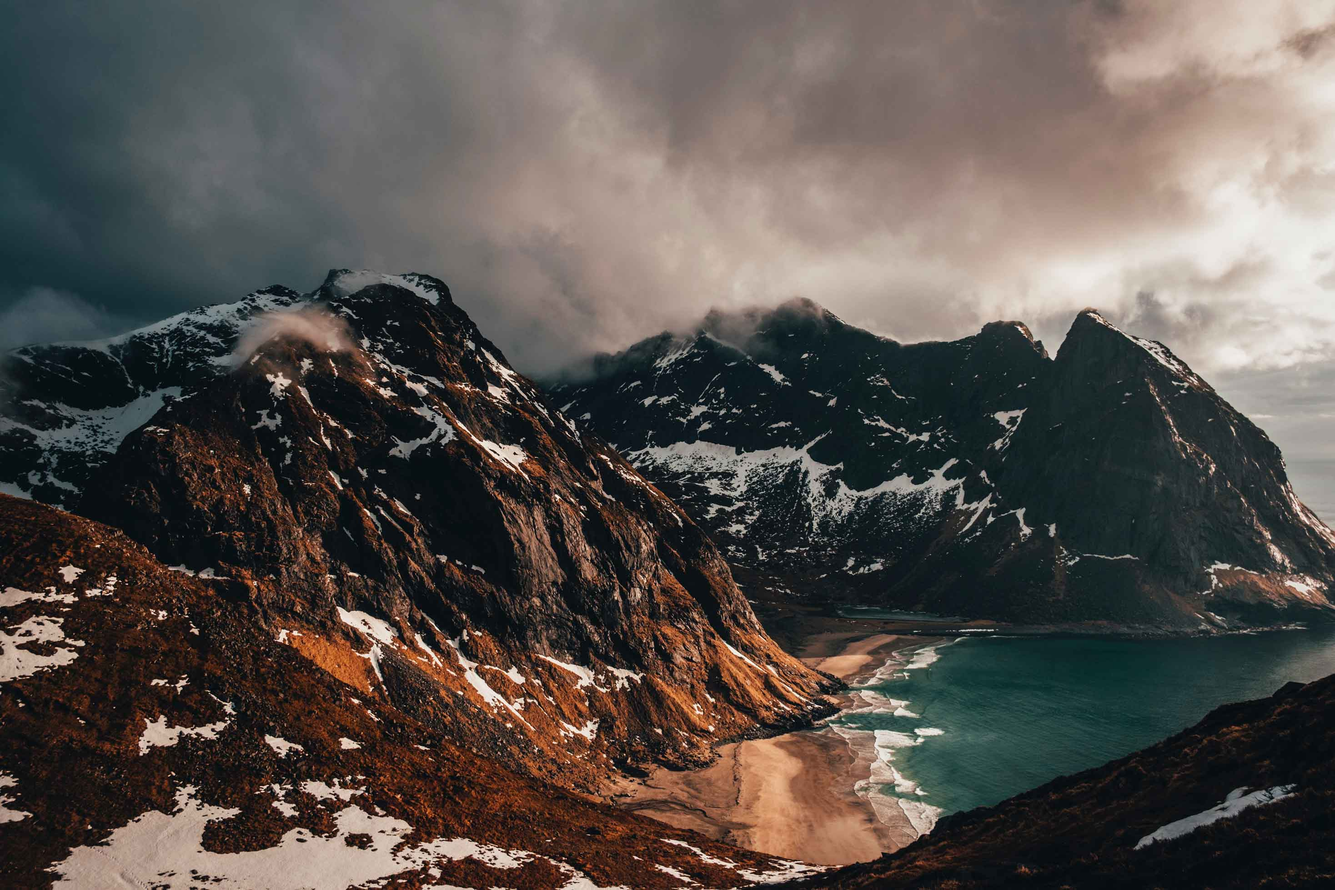
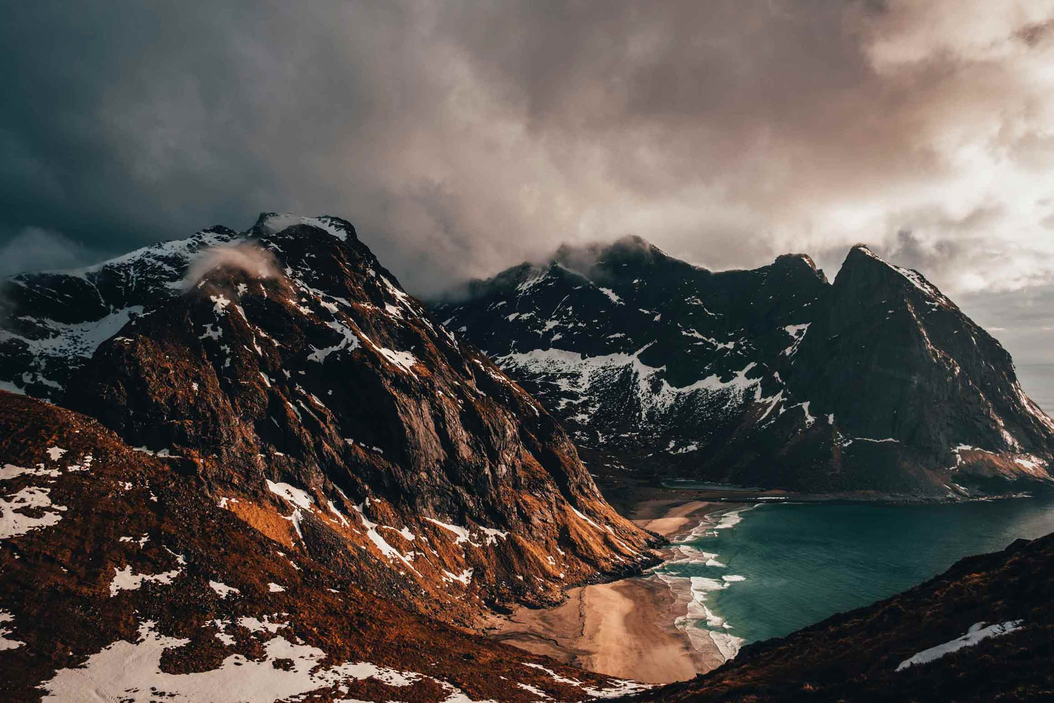
edit image size + changes on navbar

diff --git a/index.html b/index.html
@@ -37,11 +37,9 @@
           </li>
           <li><a href="products/women.html" class="nav-product">WOMEN</a></li>
           <li><a href="products/news.html" class="nav-product">NEWS</a></li>
-          <span style="font-size: 3em">
-            <a href="cart.html"><i class="fas fa-shopping-bag floated"></i></a>
-            <a href="search.html"><i class="fas fa-search floated"></i></a>
-          </span>
         </ul>
+        <a href="cart.html"><i class="fas fa-shopping-bag"></i></a>
+        <a href="search.html"><i class="fas fa-search"></i></a>
       </nav>
     </header>
     <main>

diff --git a/CSS/styles.css b/CSS/styles.css
@@ -4,10 +4,16 @@ body {
   margin: 0px;
 }
 
+.logo,
+.nav-product {
+  display: inline-block;
+}
+
 .logo {
   max-width: 200px;
   display: inline-block;
   margin: 10px;
+  float: left;
 }
 
 .form__input {
@@ -18,12 +24,15 @@ body {
 .fa-search {
   color: #0b3a40;
   margin: 10px;
+  font-size: 3em;
+  float: right;
 }
 
 .nav-product {
   color: #0b3a40;
   text-decoration: none;
   padding: 10px;
+  float: middle;
 }
 
 .nav-product li {
@@ -32,10 +41,6 @@ body {
 
 .nav-product:hover {
   color: #7b4026;
-}
-
-.floated {
-  float: right;
 }
 
 .nav-list {

diff --git a/CSS/index.css b/CSS/index.css
@@ -3,6 +3,7 @@ main h1 {
   background-repeat: no-repeat;
   background-size: cover;
   min-height: 800px;
+  margin-top: 50px;
 }
 
 h1 {
@@ -23,4 +24,9 @@ h1 {
   display: inline-flex;
   max-width: 300px;
   padding: 10px;
+}
+
+h2,
+h3 {
+  margin: 10px;
 }
